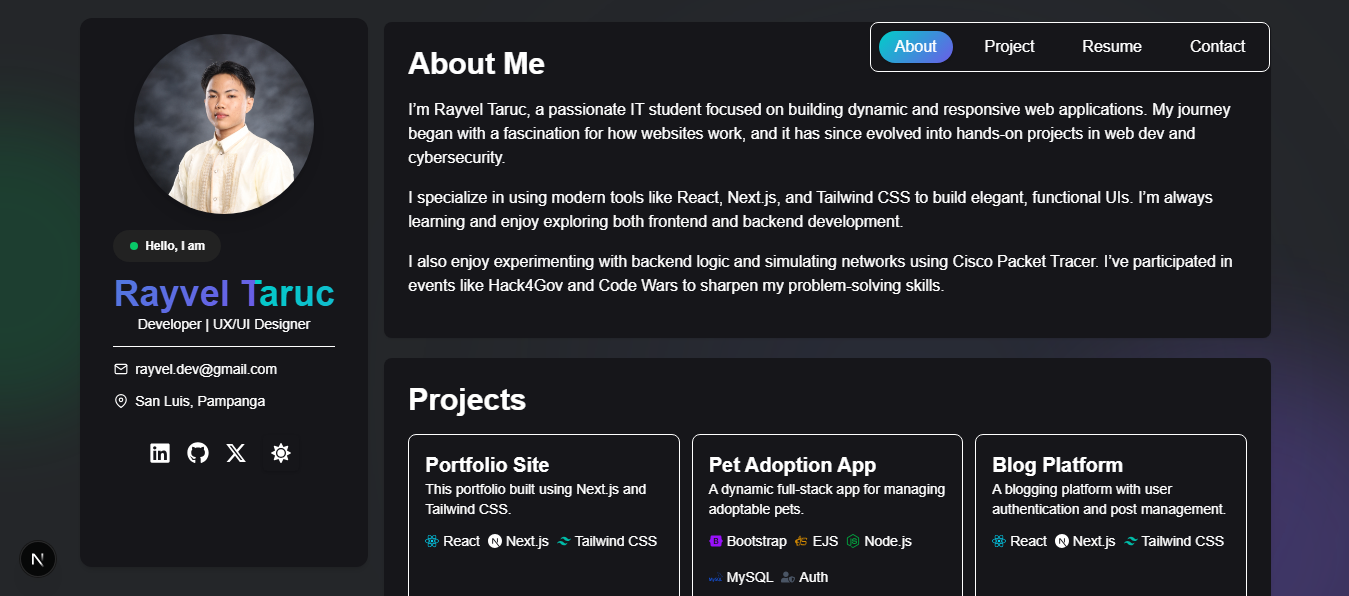
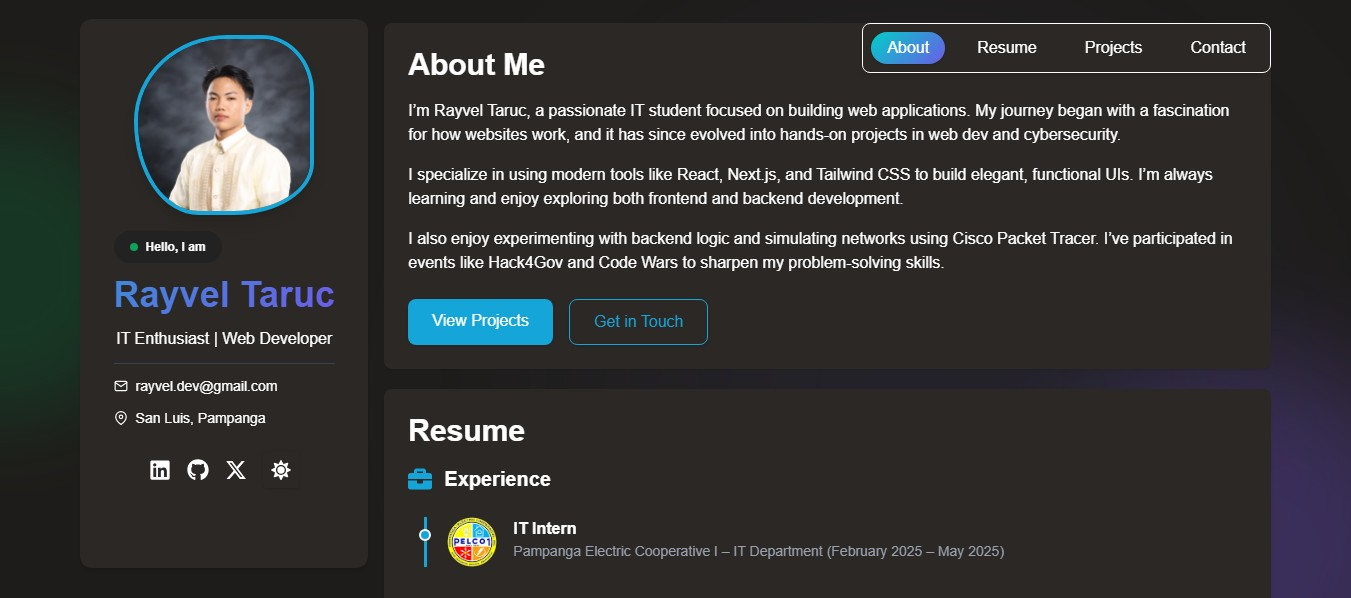
feat: integration of framer motion animation, update modal img preview

diff --git a/src/components/sections/About.tsx b/src/components/sections/About.tsx
@@ -1,46 +1,124 @@
+"use client";
+import { motion } from "framer-motion";
+
 export function About() {
   return (
-    <div className="bg-(--card-bg) p-6 rounded-lg shadow text-paragraph">
-      <h2 className="text-3xl font-bold mb-4 text-headline">About Me</h2>
-
-      <p className="text-base lg:text-md mb-4">
-        I’m Rayvel Taruc, a passionate IT student focused on building web applications.
-        My journey began with a fascination for how websites work, and it has since evolved into hands-on projects in web dev and cybersecurity.
-      </p>
-
-      <p className="text-base lg:text-md mb-4">
-        I specialize in using modern tools like React, Next.js, and Tailwind CSS to build elegant, functional UIs. 
-        I’m always learning and enjoy exploring both frontend and backend development.
-      </p>
-
-      <p className="text-base lg:text-md mb-4">
-        I also enjoy experimenting with backend logic and simulating networks using Cisco Packet Tracer.
-        I’ve participated in events like Hack4Gov and Code Wars to sharpen my problem-solving skills.
-      </p>
-
-      {/* Buttons Section */}
-      <div className="mt-6 flex flex-col sm:flex-row flex-wrap gap-3 sm:gap-4 justify-center 
-                      sm:justify-start lg:justify-start">
-        <a
-          href="#projects"
-          className="px-6 py-2.5 rounded-lg font-medium shadow 
-                    bg-(--accent) text-white text-center
-                    hover:scale-105 hover:opacity-90 
-                    transition-all duration-300"
+    <motion.div
+      initial={{ opacity: 0, y: 30 }}
+      whileInView={{ opacity: 1, y: 0 }}
+      transition={{ duration: 0.8 }}
+      viewport={{ once: true }}
+      className=""
+    >
+      <div className="bg-(--card-bg) p-6 rounded-lg shadow text-paragraph">
+        {/* Title */}
+        <motion.h2
+          initial={{ opacity: 0, y: -20 }}
+          whileInView={{ opacity: 1, y: 0 }}
+          transition={{ duration: 0.6 }}
+          viewport={{ once: true }}
+          className="text-3xl font-bold mb-4 text-headline"
         >
-          View Projects
-        </a>
-        <a
-          href="#contact"
-          className="px-6 py-2.5 rounded-lg font-medium shadow 
-                    border border-(--accent) text-(--accent) text-center
-                    hover:bg-(--accent) hover:text-white hover:scale-105 
-                    transition-all duration-300"
+          About Me
+        </motion.h2>
+
+        {/* Paragraphs */}
+        <motion.p
+          initial={{ opacity: 0 }}
+          whileInView={{ opacity: 1 }}
+          transition={{ delay: 0.2, duration: 0.8 }}
+          viewport={{ once: true }}
+          className="text-base lg:text-md mb-4"
         >
-          Get in Touch
-        </a>
+          I’m Rayvel Taruc, a passionate IT Enthusiast focused on building web applications.
+          My journey began with a fascination for how websites work, and it has since evolved into hands-on projects in web dev and cybersecurity.
+        </motion.p>
+
+        <motion.p
+          initial={{ opacity: 0 }}
+          whileInView={{ opacity: 1 }}
+          transition={{ delay: 0.4, duration: 0.8 }}
+          viewport={{ once: true }}
+          className="text-base lg:text-md mb-4"
+        >
+          I specialize in using modern tools like React, Next.js, and Tailwind CSS to build elegant, functional UIs. 
+          I’m always learning and enjoy exploring both frontend and backend development.
+        </motion.p>
+
+        <motion.p
+          initial={{ opacity: 0 }}
+          whileInView={{ opacity: 1 }}
+          transition={{ delay: 0.6, duration: 0.8 }}
+          viewport={{ once: true }}
+          className="text-base lg:text-md mb-6"
+        >
+          I also enjoy experimenting with backend logic and simulating networks using Cisco Packet Tracer. 
+          I’ve participated in events like Hack4Gov and Code Wars to sharpen my problem-solving skills.
+        </motion.p>
+
+        {/* Highlights / Quick Stats */}
+        <motion.div
+          initial={{ opacity: 0, y: 20 }}
+          whileInView={{ opacity: 1, y: 0 }}
+          transition={{ delay: 0.8, duration: 0.8 }}
+          viewport={{ once: true }}
+          className="mb-8"
+        >
+          <h3 className="text-xl font-semibold mb-4 text-headline">Highlights</h3>
+          <div className="grid grid-cols-2 sm:grid-cols-3 gap-4">
+            {[
+              { stat: "5+", label: "Projects Completed", link: "#projects" },
+              { stat: "3", label: "Competitions Joined", link: "#resume" },
+              { stat: "3+", label: "Years Coding", link: "#resume" },
+            ].map((item, index) => (
+              <motion.a
+                key={index}
+                href={item.link}
+                initial={{ opacity: 0, scale: 0.9 }}
+                whileInView={{ opacity: 1, scale: 1 }}
+                transition={{ delay: 1 + index * 0.2, duration: 0.6 }}
+                viewport={{ once: true }}
+                className="bg-(--bg) p-4 rounded-lg shadow-md text-center 
+                          border border-transparent
+                          hover:border-(--accent) hover:scale-105 
+                          transition-all duration-300 cursor-pointer"
+              >
+                <p className="text-2xl font-bold text-(--accent)">{item.stat}</p>
+                <p className="text-sm text-paragraph">{item.label}</p>
+              </motion.a>
+            ))}
+          </div>
+        </motion.div>
+
+
+        {/* Buttons Section */}
+        <motion.div
+          initial={{ opacity: 0, y: 20 }}
+          whileInView={{ opacity: 1, y: 0 }}
+          transition={{ delay: 1.6, duration: 0.8 }}
+          viewport={{ once: true }}
+          className="mt-6 flex flex-col sm:flex-row flex-wrap gap-3 sm:gap-4 justify-center sm:justify-start lg:justify-start"
+        >
+          <a
+            href="#projects"
+            className="px-6 py-2.5 rounded-lg font-medium shadow 
+                      bg-(--accent) text-white text-center
+                      hover:scale-110 hover:opacity-90 
+                      transition-all duration-300"
+          >
+            View Projects
+          </a>
+          <a
+            href="#contact"
+            className="px-6 py-2.5 rounded-lg font-medium shadow 
+                      border border-(--accent) text-(--accent) text-center
+                      hover:bg-(--accent) hover:text-white hover:scale-110 
+                      transition-all duration-300"
+          >
+            Get in Touch
+          </a>
+        </motion.div>
       </div>
-
-    </div>
+    </motion.div>
   );
 }

diff --git a/src/components/ui/Modal.tsx b/src/components/ui/Modal.tsx
@@ -98,6 +98,7 @@ export function Modal({ isOpen, onClose, title, content, image, repo }: ModalPro
 
   return (
     <div
+
       className="fixed inset-0 z-50 flex items-center justify-center bg-black/60"
       role="dialog"
       aria-modal="true"
@@ -106,7 +107,12 @@ export function Modal({ isOpen, onClose, title, content, image, repo }: ModalPro
     >
       <div
         ref={modalRef}
-        className={`bg-white dark:bg-[var(--card-bg)] p-0 rounded-lg shadow-lg max-w-3xl w-full h-[80vh] flex flex-col overflow-hidden transform transition-all duration-300 ${
+        className={`
+          bg-white dark:bg-[var(--card-bg)] p-0 rounded-lg shadow-lg 
+          w-[95%] sm:w-[90%] md:w-[80%] lg:max-w-3xl 
+          h-[90vh] sm:h-[85vh] md:h-[80vh] 
+          flex flex-col overflow-hidden 
+          transform transition-all duration-300{
           isOpen ? "opacity-100 scale-100" : "opacity-0 scale-95"
         }`}
         onClick={(e) => e.stopPropagation()}
@@ -128,16 +134,16 @@ export function Modal({ isOpen, onClose, title, content, image, repo }: ModalPro
         {/* Scrollable Body (now includes image + content) */}
         <div className="flex-1 overflow-y-auto prose dark:prose-invert text-sm">
           {image && (
-            <div className="relative w-full h-64">
-              <Image
-                src={image}
-                alt={title}
-                fill
-                className="object-cover"
-                sizes="100vw"
-                style={{ objectFit: "cover" }}
-              />
-            </div>
+            <div className="relative w-full h-48 sm:h-64 md:h-72 lg:h-80">
+            <Image
+              src={image}
+              alt={title}
+              fill
+              className="object-cover rounded-t-lg"
+              sizes="(max-width: 640px) 100vw, (max-width: 1024px) 80vw, 768px"
+              priority
+            />
+          </div>
           )}
 
           <div className="p-6">
